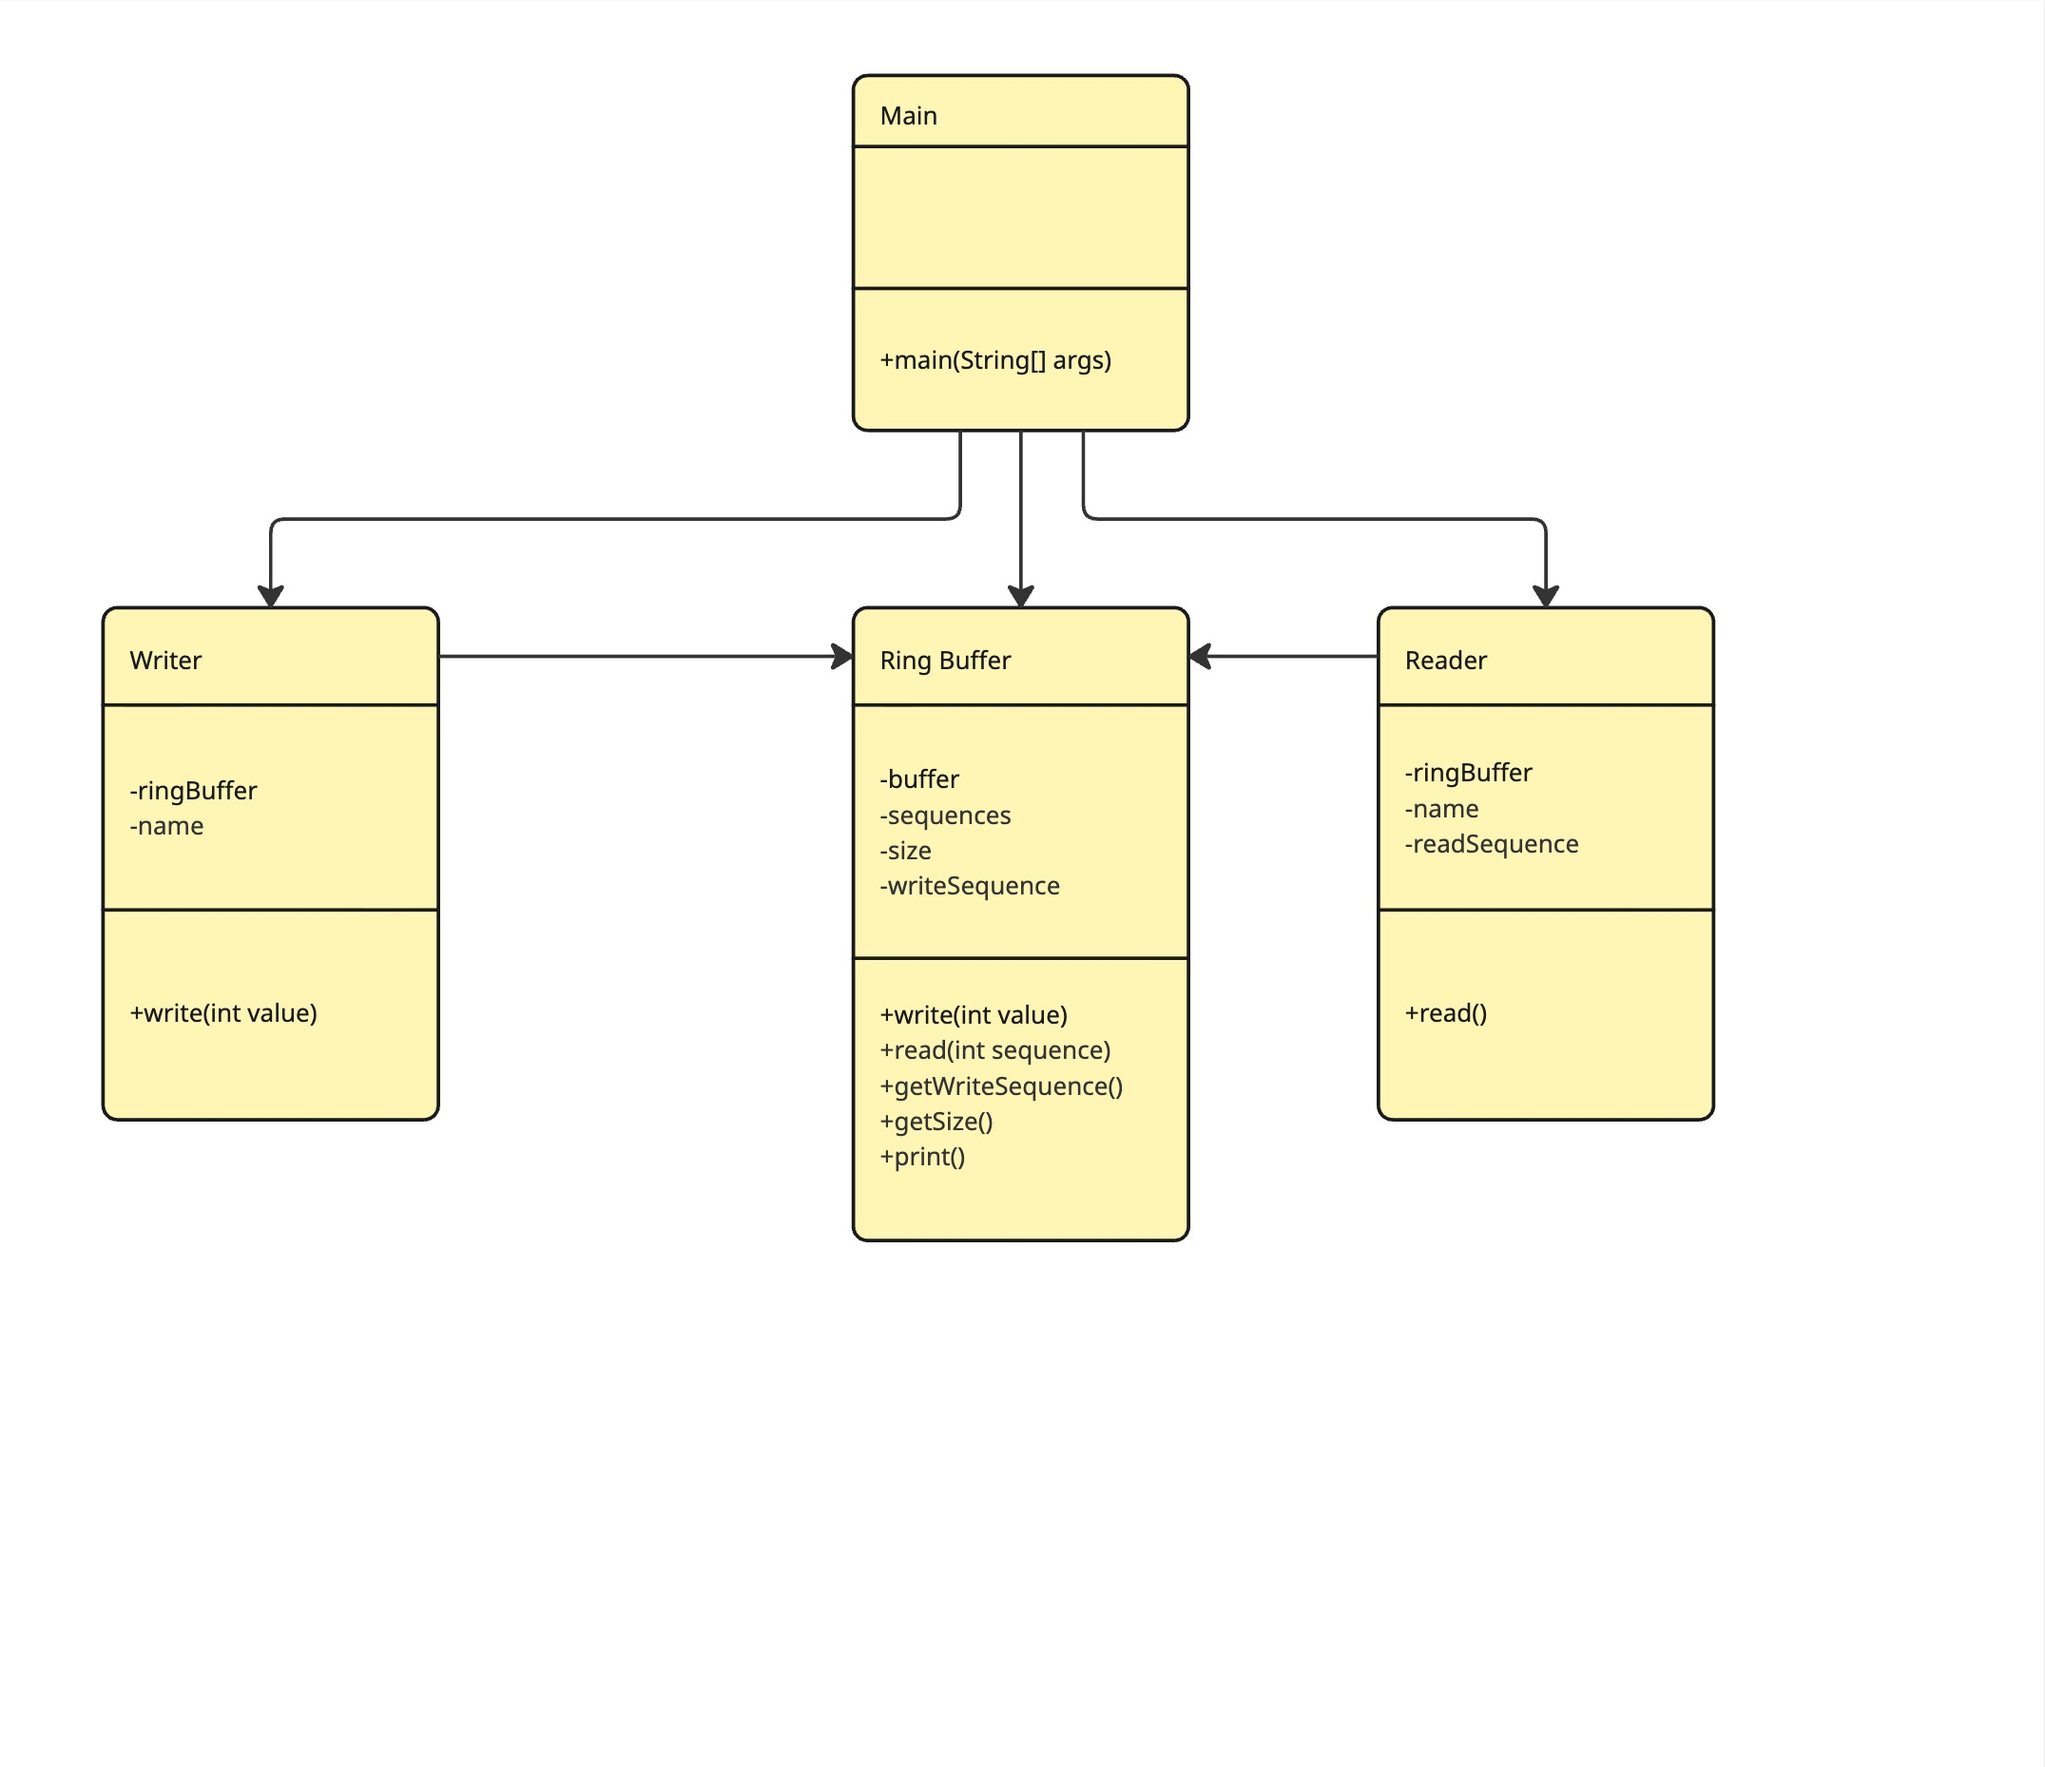
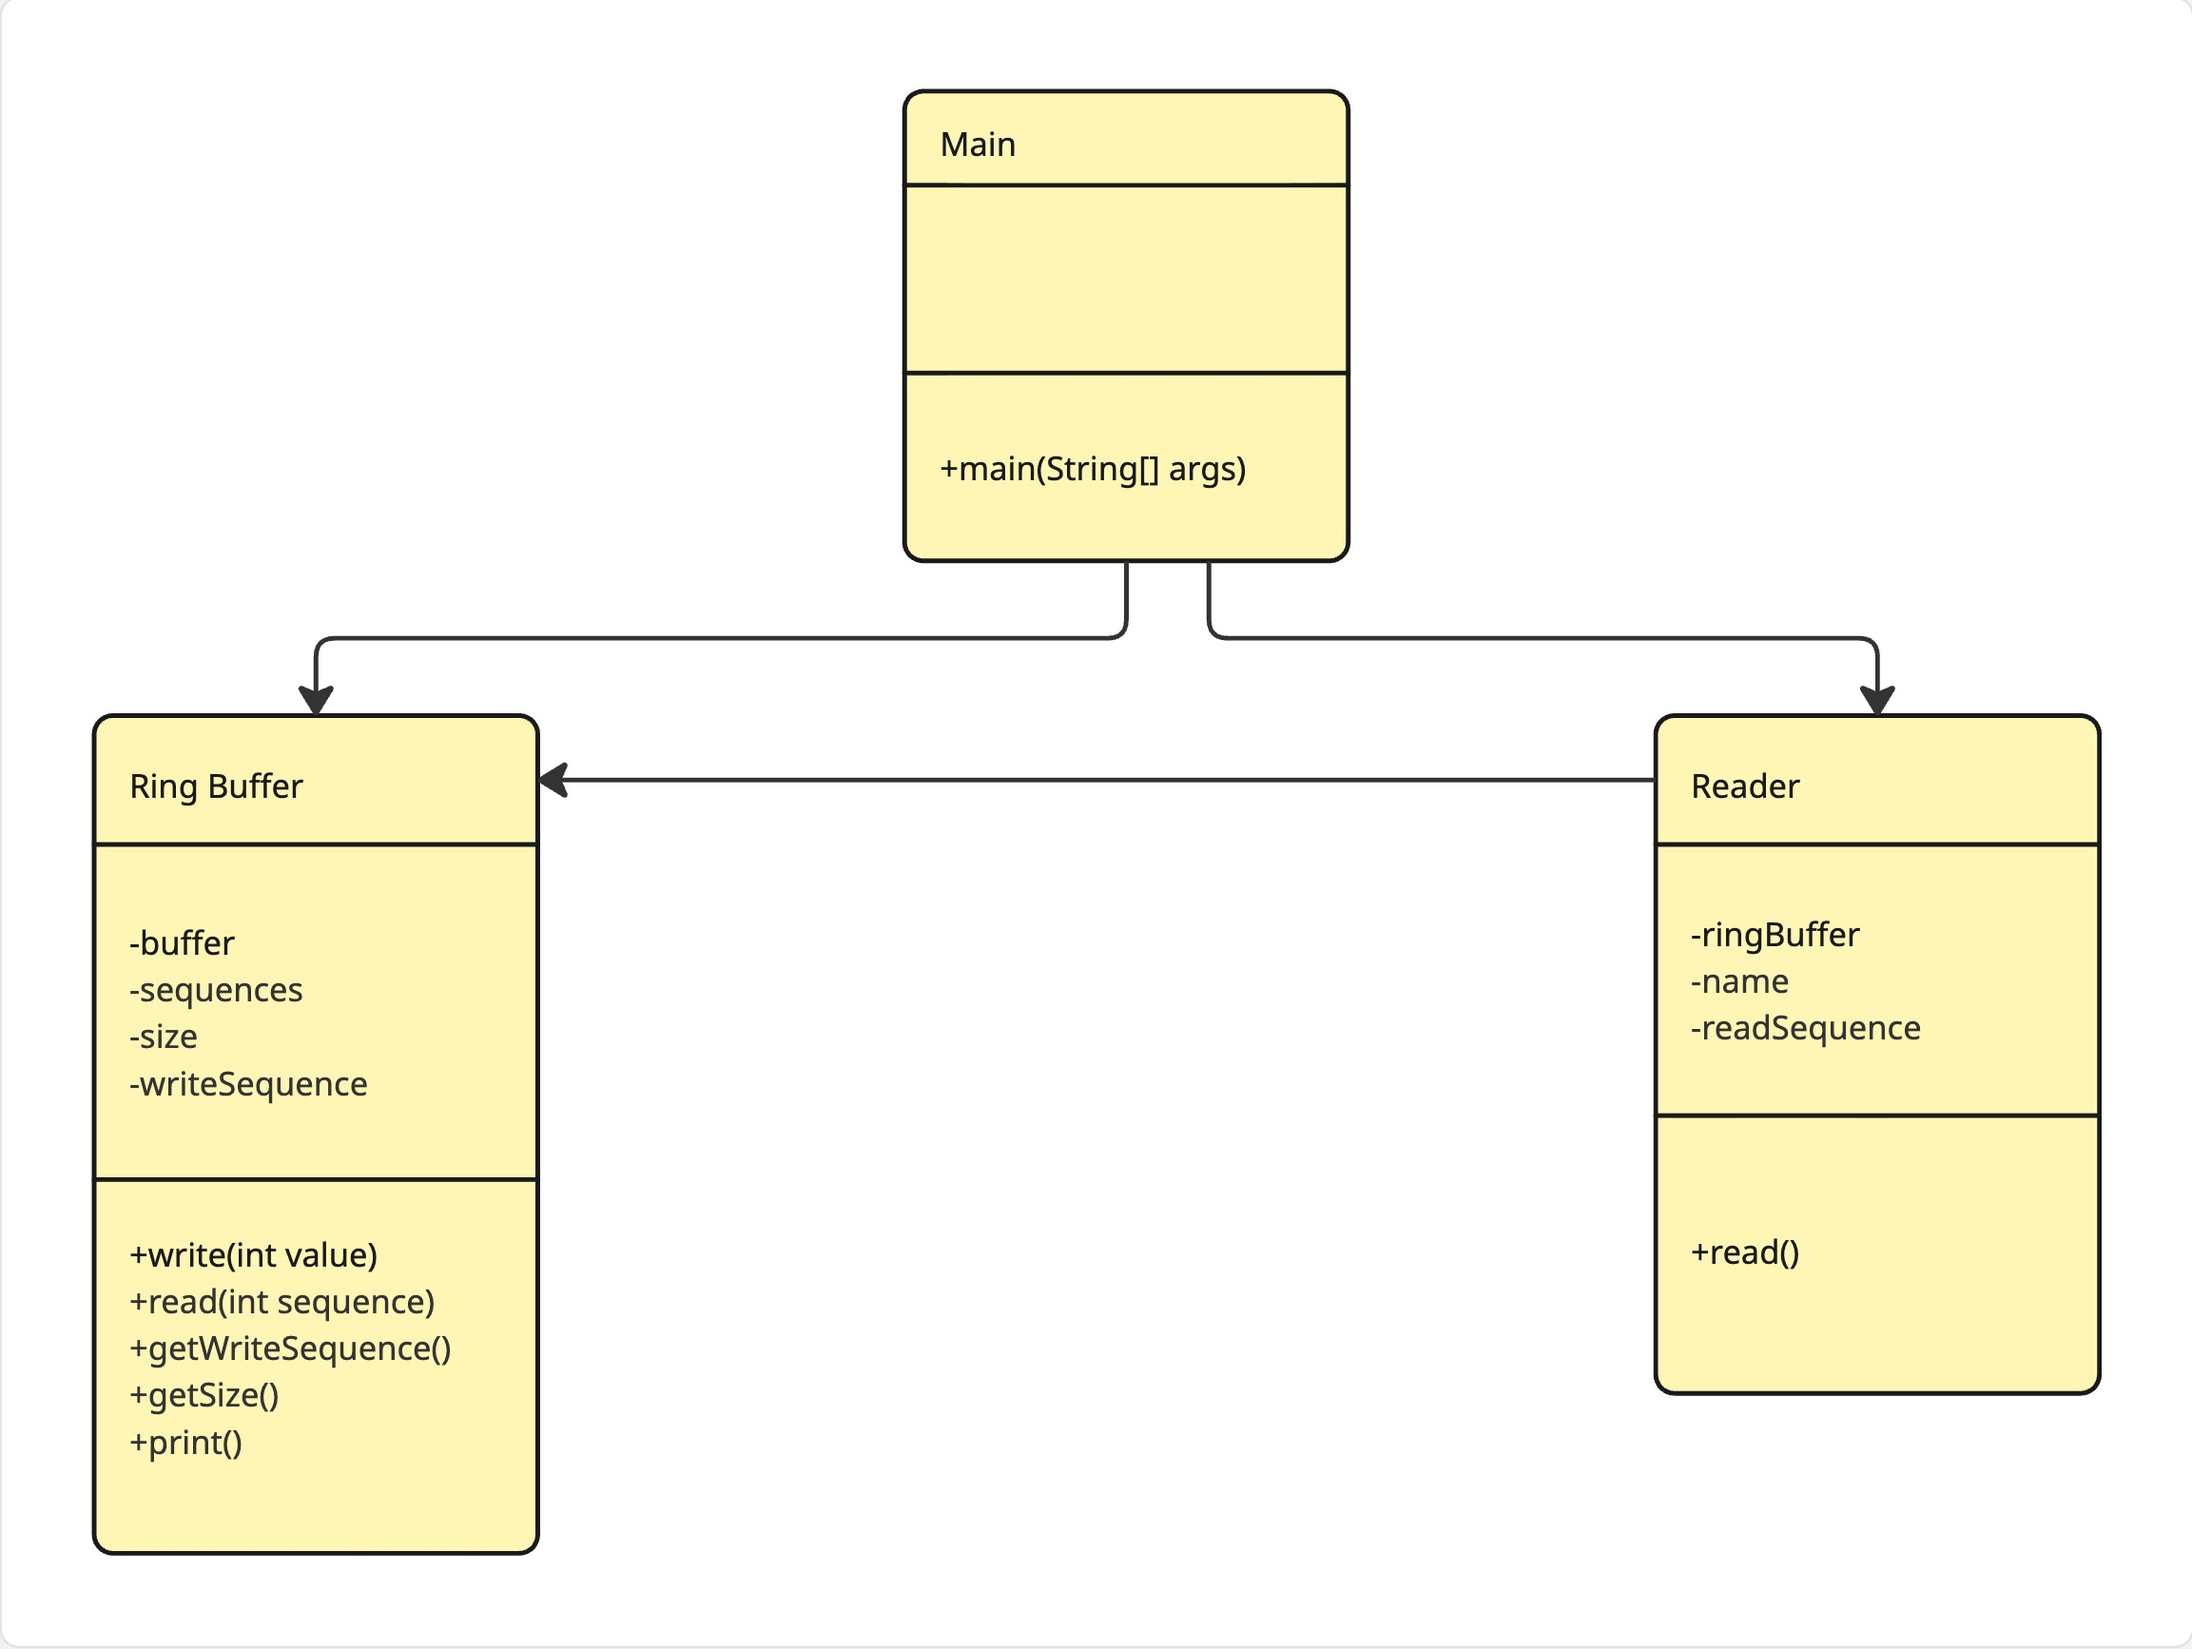
upd: update README.md and diagrams

Changed region(s): [[0.0311, 0.0311, 0.9656, 0.9654], [0.0, 0.9965, 0.9967, 1.0]]

diff --git a/RingBuffer.java b/RingBuffer.java
@@ -30,6 +30,7 @@ public class RingBuffer {
 
   // The write method adds a new value to the buffer at the position determined by the current write sequence.
   public synchronized void write(long value) {
+    
 
     int index = (int) (writeSequence % size);
 

diff --git a/README.md b/README.md
@@ -2,17 +2,17 @@
 
 ## Project overview
 
-This project implements a fixed-size ring buffer where one writer appends values and multiple readers consume values independently.
+This project implements a fixed-size ring buffer where values are written into a shared buffer and multiple readers consume values independently.
 
 Key behavior:
 
 - The Ring Buffer has a fixed capacity N.
-- Only one writer is allowed to call write().
+- Writes happen through `RingBuffer.write(long value)`.
 - There may be multiple readers, each reading from the same buffer.
 - Each reader must have its own reading position.
 - Reading by one reader must not remove the item for other readers.
-- If the buffer becomes full, the writer is allowed to overwrite the oldest data.
-- In this case, slow readers may miss some items.
+- If the buffer becomes full, new writes overwrite the oldest data.
+- In this case, slow readers may miss some items and continue from the oldest currently available sequence.
 
 ## Design and responsibilities
 
@@ -24,21 +24,17 @@ Key behavior:
 - Validates whether a requested sequence is still available.
 - Implements deterministic ring-buffer behavior in a simple single-threaded model.
 
-### `Writer`
-
-- Represents the producer role.
-- Sends values into `RingBuffer` through `write(int value)`.
-
 ### `Reader`
 
 - Represents one consumer with an independent cursor (`readSequence`).
 - Reads from `RingBuffer` by sequence.
-- Detects missed/overwritten data (`null` read) and catches up to the oldest currently available sequence.
+- If a reader falls behind, it is advanced to the oldest currently available sequence before reading.
+- Returns `null` when no new data is currently available.
 
 ### `Main`
 
 - Entry point for running the program.
-- Demonstrates one writer with two readers at different speeds.
+- Demonstrates writes plus two readers at different speeds.
 - Shows independent reader progression and overwrite behavior when capacity is exceeded.
 
 ## UML Class Diagram
@@ -65,7 +61,7 @@ Diagram source: [Miro board](https://miro.com/app/board/uXjVG8bkPB0=/?share_link
 2. Compile:
 
 ```bash
-javac Main.java RingBuffer.java Writer.java Reader.java
+javac Main.java RingBuffer.java Reader.java
 ```
 
 3. Run:
@@ -79,15 +75,15 @@ java Main
 To validate ring-buffer behavior, add a short scenario in `Main.main` that:
 
 1. Creates one `RingBuffer` with small size (for example `3`).
-2. Creates one `Writer` and at least two `Reader` instances.
+2. Creates at least two `Reader` instances.
 3. Writes more than capacity (for example 5-6 values).
 4. Reads at different speeds from readers.
 5. Observes that:
    - Readers progress independently.
    - Reading by one reader does not remove values for another.
-   - Slow readers receive `null` after overwrite and then catch up.
+   - Slow readers skip missed overwritten values and continue from currently available data.
 
 ## Notes
 
 - Implementation is intentionally single-threaded for clarity of assignment behavior.
-- One writer object should be used as the producer for each `RingBuffer` instance.
+- The current codebase does not define a separate `Writer` class; writes are invoked directly on `RingBuffer`.
